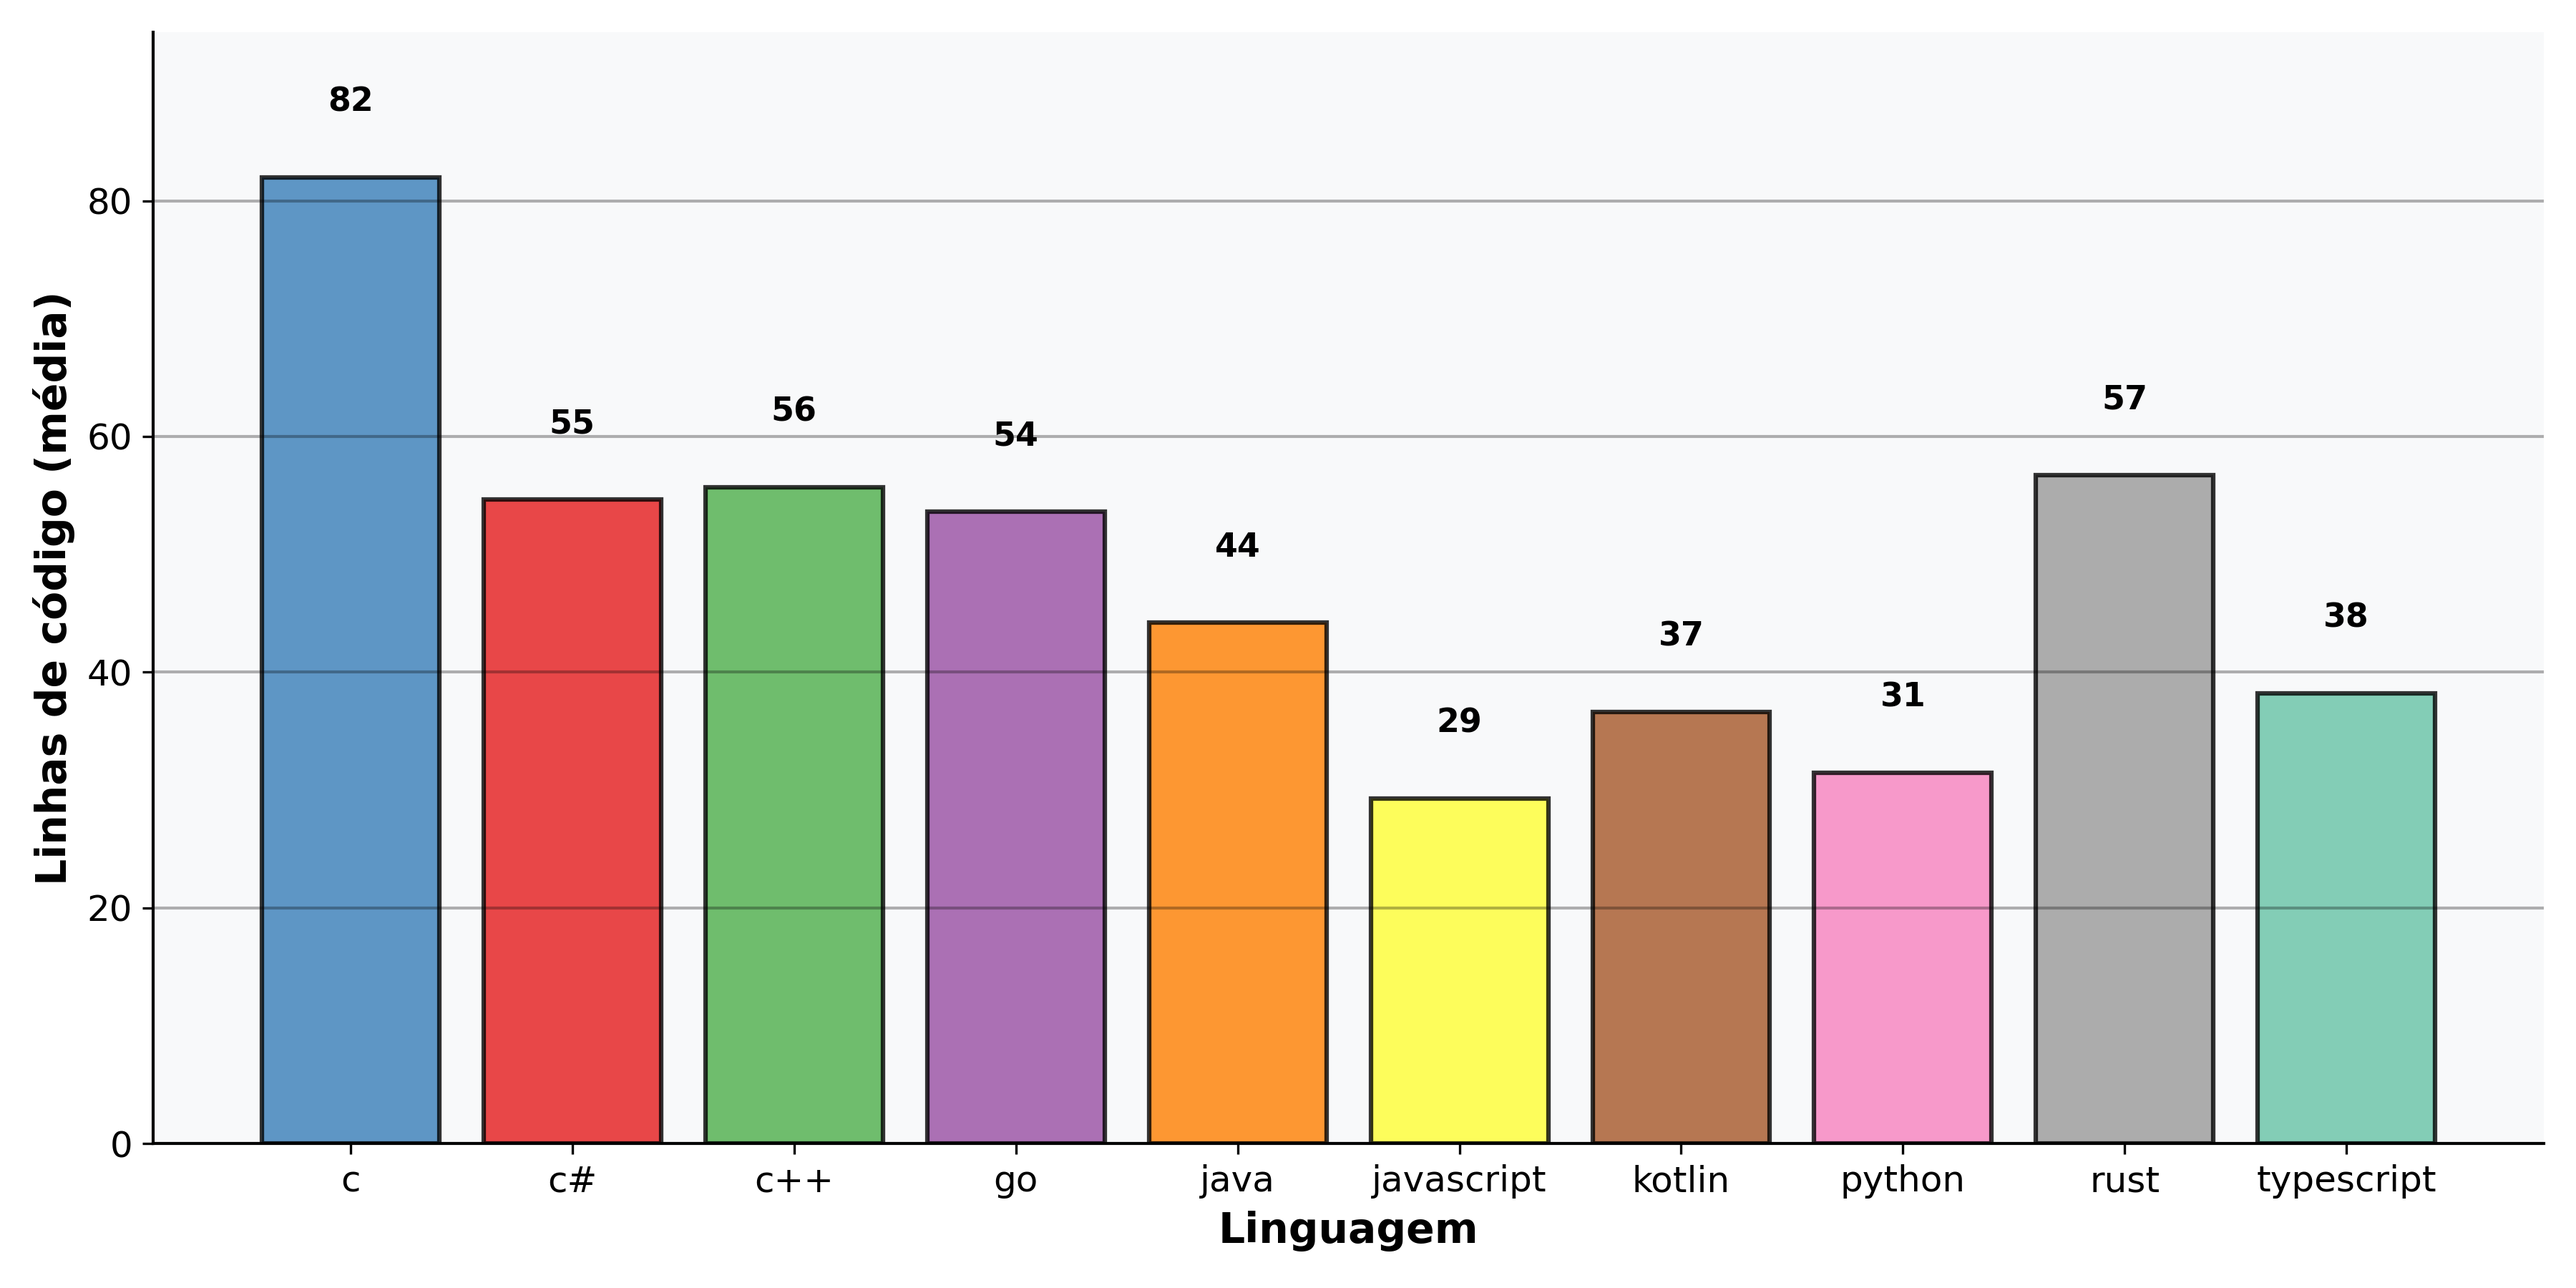
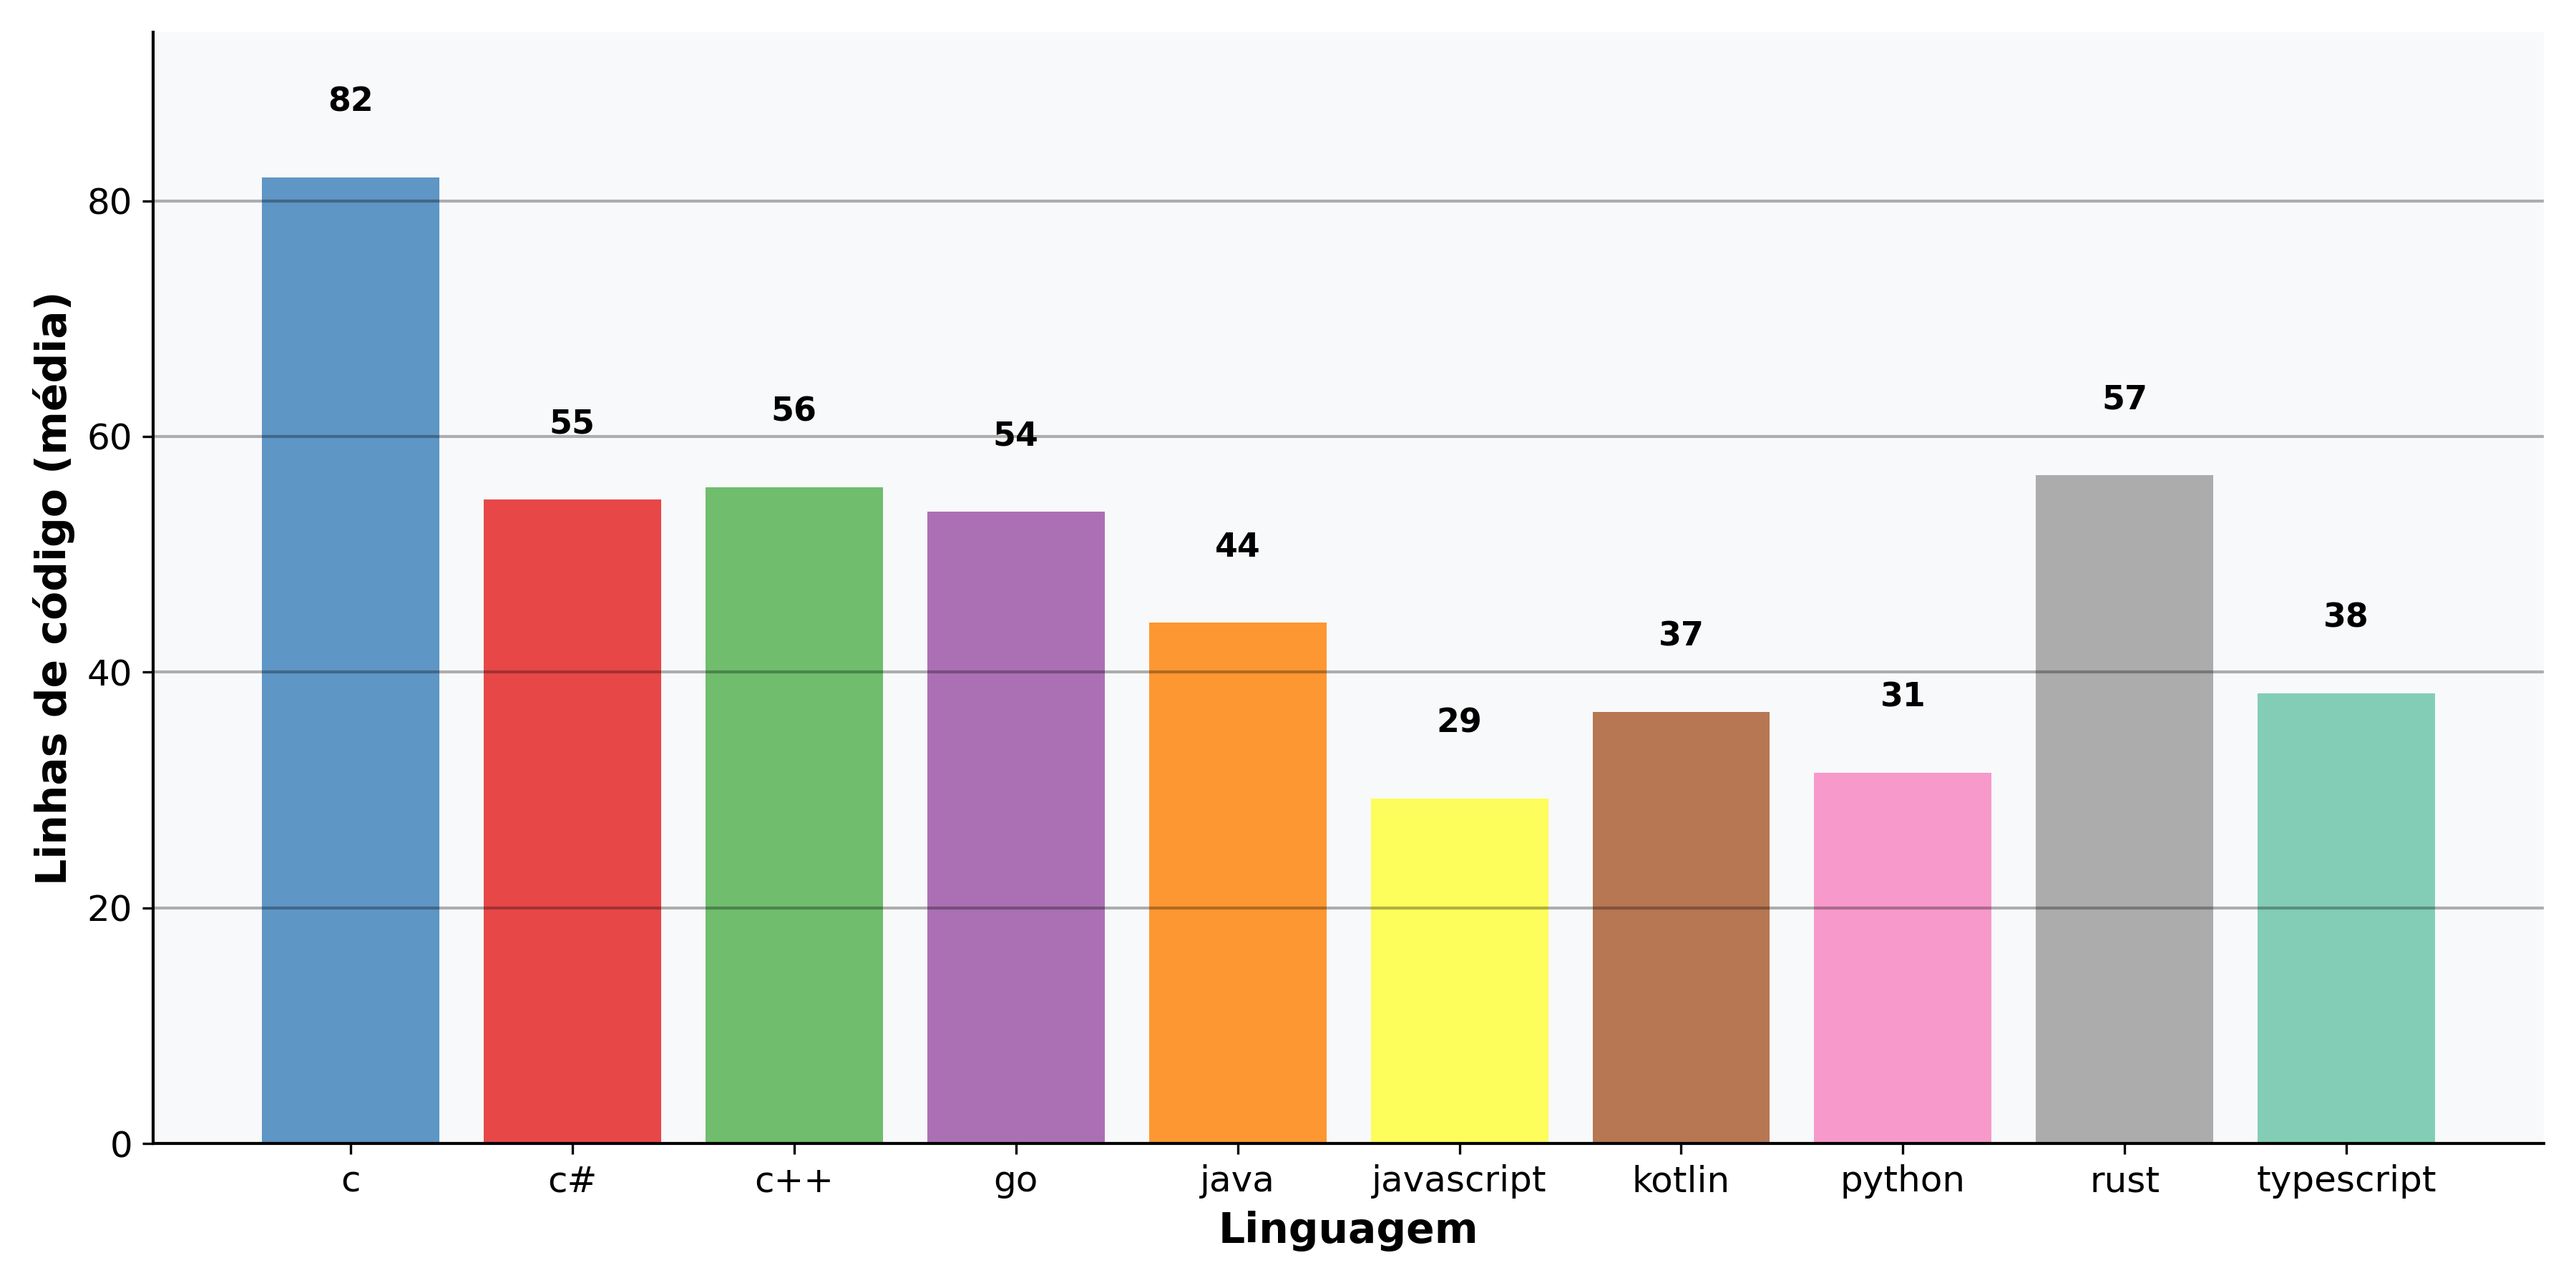
Refactor plotting functions for improved aesthetics and readability; update bar and scatter plot styles

diff --git a/thesis/bi.py b/thesis/bi.py
@@ -4,6 +4,7 @@ import numpy as np
 import pandas as pd
 import matplotlib.pyplot as plt
 from scipy import stats
+from matplotlib import colors as mcolors
 
 # ===================== Config fixo =====================
 OUT_DIR = "./bi"
@@ -220,100 +221,100 @@ def _table_to_png(mean_df, std_df, filename_base, index_name="Tamanho"):
     plt.savefig(os.path.join(OUT_DIR, f"{filename_base}_table.png"), dpi=PLOT_STYLE['dpi'], bbox_inches="tight")
     plt.close(fig_tab)
 
+from matplotlib import colors as mcolors
+
 def plot_bars_with_table(mean_df, std_df, title, ylabel, filename, is_time_plot=False):
-    """Gera gráfico de barras agrupadas (sem título) e tabela separada."""
+    """Gera gráfico de barras agrupadas com eixo Y altamente detalhado e sem números sobre as barras."""
     if mean_df is None or mean_df.empty:
         return
-    
-    # Configurações de estilo
-    if is_time_plot:
-        style = TIME_PLOT_STYLE
-    else:
-        style = PLOT_STYLE
-    
+
+    style = TIME_PLOT_STYLE if is_time_plot else PLOT_STYLE
     plt.figure(figsize=style['fig_size'])
-    
+
     colors = {c: COLORS_VIBRANT[i % len(COLORS_VIBRANT)] for i, c in enumerate(mean_df.columns)}
-    
-    # Configurar posições das barras
+
     n_groups = len(mean_df.index)
     n_bars = len(mean_df.columns)
-    bar_width = 0.8 / n_bars  # Largura dinâmica baseada no número de barras
-    
-    x_positions = np.arange(n_groups)
-    
-    # Plotar barras para cada linguagem
+
+    # Aumentar espaçamento horizontal
+    bar_width = 0.45 / max(n_bars, 1)
+    internal_spacing_factor = 2.0
+    group_spacing = 2.0
+
+    x_positions = np.arange(n_groups) * group_spacing
+
+    # ============================
+    # BARRAS
+    # ============================
     for i, col in enumerate(mean_df.columns):
-        bar_pos = x_positions + i * bar_width - (n_bars * bar_width) / 2 + bar_width / 2
-        y_values = mean_df[col].values
-        y_errors = std_df[col].values if (std_df is not None and col in std_df.columns) else None
-        
+        offset = (i - (n_bars - 1) / 2) * (bar_width * internal_spacing_factor)
+        bar_pos = x_positions + offset
         plt.bar(
-            bar_pos, 
-            y_values,
+            bar_pos,
+            mean_df[col].values,
             width=bar_width,
             color=colors[col],
-            edgecolor='black',
-            linewidth=2,
-            alpha=0.8,
+            edgecolor='none',
+            linewidth=0,
+            alpha=0.9,
             label=str(col),
-            yerr=y_errors,
-            capsize=5,
-            error_kw={'elinewidth': 2, 'capthick': 2}
         )
-        
-        # Adicionar valores nas barras se o espaço permitir
-        max_val = mean_df.max().max()
-        if max_val > 0:  # Só adiciona texto se não for zero
-            for j, v in enumerate(y_values):
-                if v > max_val * 0.05:  # Só mostra texto se for significativo
-                    plt.text(bar_pos[j], v + max_val * 0.01, f'{v:.3f}', 
-                            ha='center', va='bottom', fontsize=style['font_size_ticks']-4,
-                            fontweight='bold')
 
-    # Configurações do gráfico
+    # ============================
+    # EIXOS E ESCALA
+    # ============================
     plt.xlabel("Tamanho do dataset", fontsize=style['font_size_labels'], fontweight='bold')
     plt.ylabel(ylabel, fontsize=style['font_size_labels'], fontweight='bold')
-    
-    # Configurar eixo X
     plt.xticks(x_positions, [str(v) for v in mean_df.index], fontsize=style['font_size_ticks'])
-    plt.xlim(x_positions[0] - 0.5, x_positions[-1] + 0.5)
-    
-    # Configurar eixo Y com mais espaço
-    y_min = mean_df.min().min()
-    y_max = mean_df.max().max()
-    margin = (y_max - y_min) * 0.3
-    plt.ylim(max(0, y_min - margin), y_max + margin)
-    
-    # Grid mais sutil
-    plt.grid(True, axis='y', alpha=0.2, linestyle='-', linewidth=1.0, color='black')
+    plt.xlim(x_positions[0] - group_spacing / 2.3, x_positions[-1] + group_spacing / 2.3)
+
+    # Escala Y detalhada
+    y_min, y_max = mean_df.min().min(), mean_df.max().max()
+    plt.ylim(max(0, y_min - (y_max - y_min) * 0.1), y_max * 1.15)
+
+    # Até 20 ticks principais e menores ativados
+    major_ticks = np.linspace(0, y_max * 1.1, 20)
+    plt.yticks(major_ticks, fontsize=style['font_size_ticks'])
+
+    # Adicionar ticks menores (dividem em 5 partes entre cada major tick)
+    plt.minorticks_on()
+    # usamos cor RGBA para simular transparência
+    minor_color = mcolors.to_rgba('gray', alpha=0.5)
+    plt.tick_params(axis='y', which='minor', length=4, color=minor_color)
+
+    # Grades principais e menores
+    plt.grid(True, axis='y', which='major', alpha=0.3, linestyle='-', linewidth=1.0, color='black')
+    plt.grid(True, axis='y', which='minor', alpha=0.15, linestyle=':', linewidth=0.8)
     plt.grid(False, axis='x')
-    
-    # Legenda
-    legend = plt.legend(
-        ncol=LEGEND_NCOL, 
-        title="Linguagens", 
-        loc="upper left", 
-        bbox_to_anchor=(1.02, 1.0), 
+
+    # ============================
+    # LEGENDA
+    # ============================
+    plt.legend(
+        ncol=LEGEND_NCOL,
+        title="Linguagens",
+        loc="upper left",
+        bbox_to_anchor=(1.02, 1.0),
         borderaxespad=0.0,
         fontsize=style['font_size_legend'],
         title_fontsize=style['font_size_legend'],
         framealpha=0.95,
         frameon=True,
-        edgecolor='black'
+        edgecolor='none'
     )
-    
-    # Melhorar aparência
+
+    # ============================
+    # ESTILO FINAL
+    # ============================
     ax = plt.gca()
     ax.spines['top'].set_visible(False)
     ax.spines['right'].set_visible(False)
     ax.spines['left'].set_linewidth(2.0)
     ax.spines['bottom'].set_linewidth(2.0)
     ax.set_facecolor('#f8f9fa')
-    
+
+    plt.tight_layout(pad=3.0)
     savefig(os.path.join(OUT_DIR, f"{filename}_barras.png"), tight=True)
-    
-    # Tabela separada
     _table_to_png(mean_df, std_df, filename_base=f"{filename}_barras", index_name="Tamanho")
 
 def plot_heatmap_with_table(mean_df, std_df, title, ylabel, filename):
@@ -375,7 +376,7 @@ def plot_dot_plot_with_table(mean_df, std_df, title, ylabel, filename):
             x_positions, y_values,
             s=200,  # Tamanho dos pontos
             color=colors[col],
-            edgecolor='black',
+            edgecolor= None,
             linewidth=2,
             alpha=0.8,
             label=str(col),
@@ -551,7 +552,7 @@ def plot_scatter_metrics(df, x_metric, y_metric, filename):
             label=lang,
             alpha=0.7,
             s=100,
-            edgecolors='black',
+            edgecolors=None,
             linewidth=1
         )
     
@@ -881,8 +882,8 @@ if {"classe", "algoritmo_norm", "tamanho", "tempo_s"}.issubset(df.columns):
                     y_values,
                     width=bar_width,
                     color=colors[col],
-                    edgecolor='black',
-                    linewidth=2,
+                    edgecolor='none',  # REMOVIDA A LINHA PRETA
+                    linewidth=0,       # Garantir que não há linha
                     alpha=0.8,
                     label=str(col),
                     yerr=y_errors,
@@ -897,15 +898,16 @@ if {"classe", "algoritmo_norm", "tamanho", "tempo_s"}.issubset(df.columns):
                         if not np.isnan(v) and v > max_val * 0.05:
                             plt.text(bar_pos[j], v + max_val * 0.01, f'{v:.3f}', 
                                     ha='center', va='bottom', fontsize=16,
-                                    fontweight='bold')
+                                    fontweight='bold',
+                                    bbox=dict(boxstyle="round,pad=0.2", facecolor='white', alpha=0.8, edgecolor='none'))
 
             # Configurações do gráfico
             plt.xlabel("Tamanho (small/medium + large só heurístico)", fontsize=20, fontweight='bold')
             plt.ylabel(ylabel, fontsize=20, fontweight='bold')
             
-            # Configurar eixo X
+            # Configurar eixo X com mais espaçamento
             plt.xticks(x_positions, [str(v) for v in mean_df.index], fontsize=18)
-            plt.xlim(x_positions[0] - 0.5, x_positions[-1] + 0.5)
+            plt.xlim(x_positions[0] - 0.6, x_positions[-1] + 0.6)
             
             # Configurar eixo Y com mais espaço
             y_min = mean_df.min().min()
@@ -926,7 +928,8 @@ if {"classe", "algoritmo_norm", "tamanho", "tempo_s"}.issubset(df.columns):
                 borderaxespad=0.0,
                 fontsize=18,
                 title_fontsize=18,
-                framealpha=0.9
+                framealpha=0.9,
+                edgecolor='none'  # Remover borda da legenda
             )
             
             # Melhorar aparência
@@ -936,6 +939,9 @@ if {"classe", "algoritmo_norm", "tamanho", "tempo_s"}.issubset(df.columns):
             ax.spines['left'].set_linewidth(2.0)
             ax.spines['bottom'].set_linewidth(2.0)
             ax.set_facecolor('#f8f9fa')
+            
+            # Aumentar espaçamento geral
+            plt.tight_layout(pad=3.0)
             
             savefig(os.path.join(OUT_DIR, f"{filename}_barras.png"), tight=True)
             
@@ -982,7 +988,7 @@ if "linhas_codigo" in df.columns and "linguagem" in df.columns:
     # Gráfico de barras SEM as linhas de erro (removido yerr=stds)
     bars = plt.bar(languages, means, capsize=5, 
                    color=COLORS_VIBRANT[:len(languages)], 
-                   edgecolor='black', linewidth=1.5, alpha=0.8)
+                   edgecolor='none', linewidth=0, alpha=0.8)  # REMOVIDA LINHA PRETA
     
     plt.ylabel("Linhas de código (média)", fontsize=14, fontweight='bold')
     plt.xlabel("Linguagem", fontsize=14, fontweight='bold')
@@ -1009,6 +1015,9 @@ if "linhas_codigo" in df.columns and "linguagem" in df.columns:
     # Ajustar limites do eixo Y para dar espaço para os números
     y_max = max(means) * 1.15  # 15% de margem no topo
     plt.ylim(0, y_max)
+    
+    # Aumentar espaçamento
+    plt.tight_layout(pad=2.0)
     
     savefig(os.path.join(OUT_DIR, "linhas_codigo_linguagem.png"))
     
